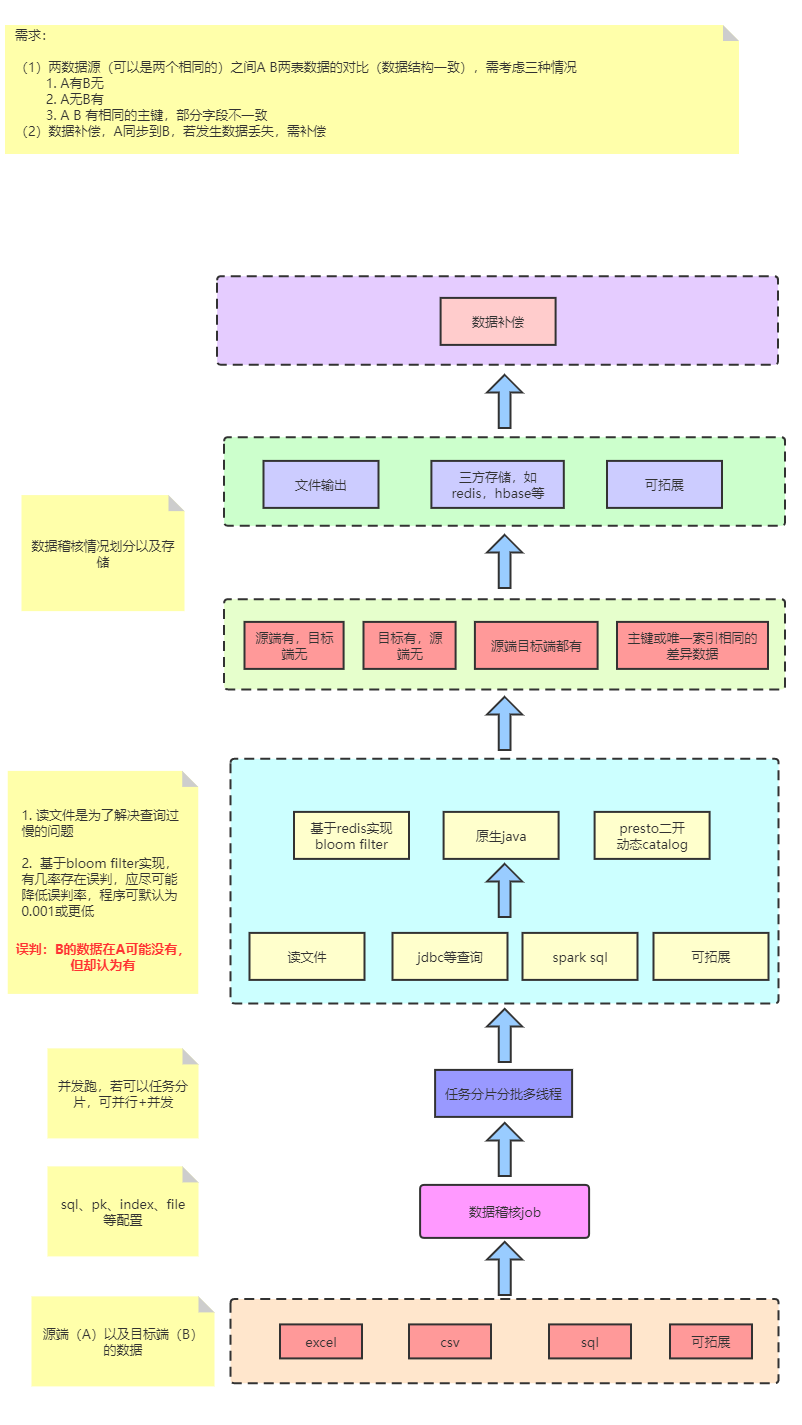
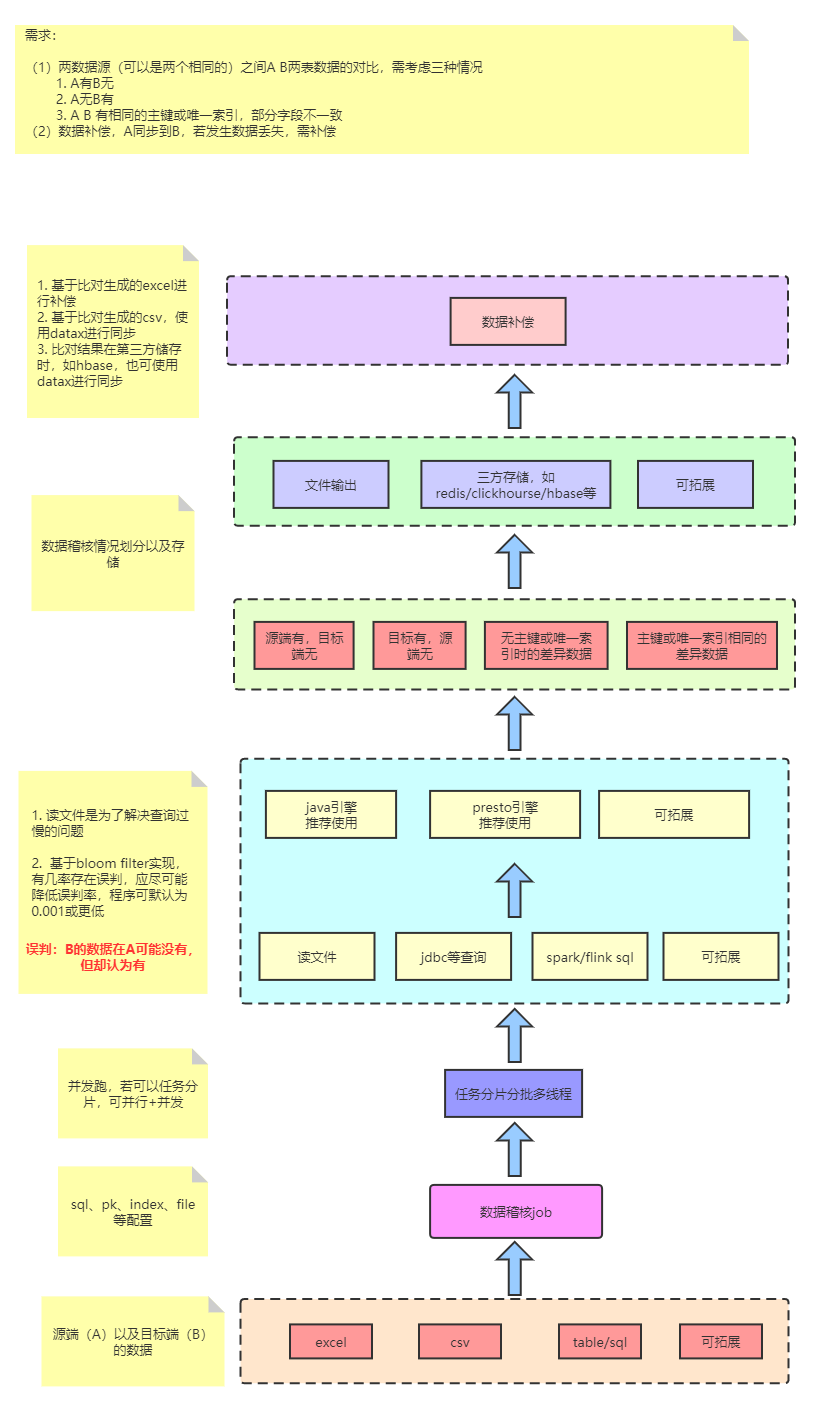
:memo: add docs & update sql

diff --git a/README.md b/README.md
@@ -18,3 +18,6 @@
 可基于生成的excel，使用[动态数据源(数据中台多数据源统一接口)](https://github.com/thestyleofme/plugin-driver-parent.git) 往不同数据源同步
 
 也可基于生成的csv以及第三存储如phoenix，使用datax进行同步
+
+#### 开发文档
+TODO
